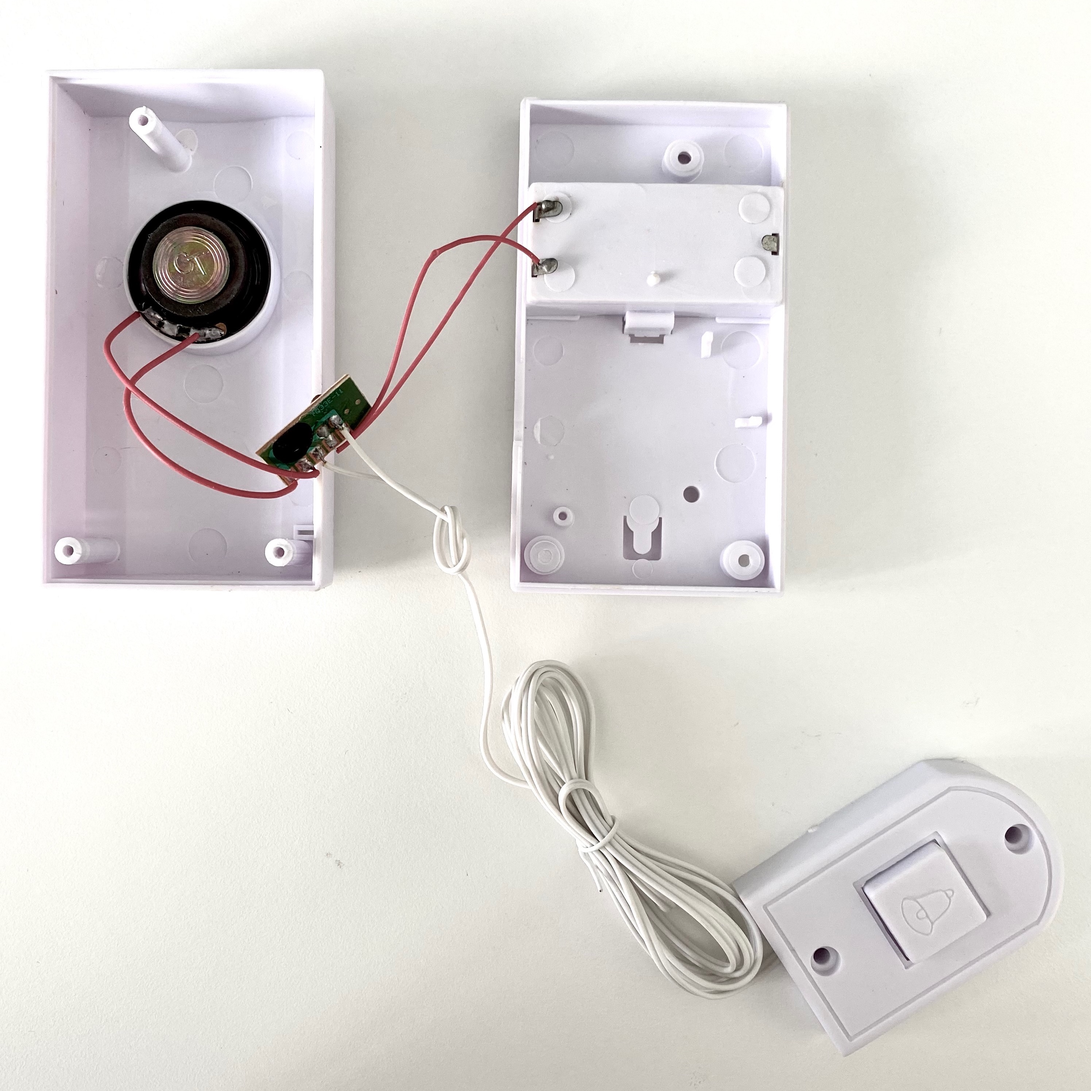
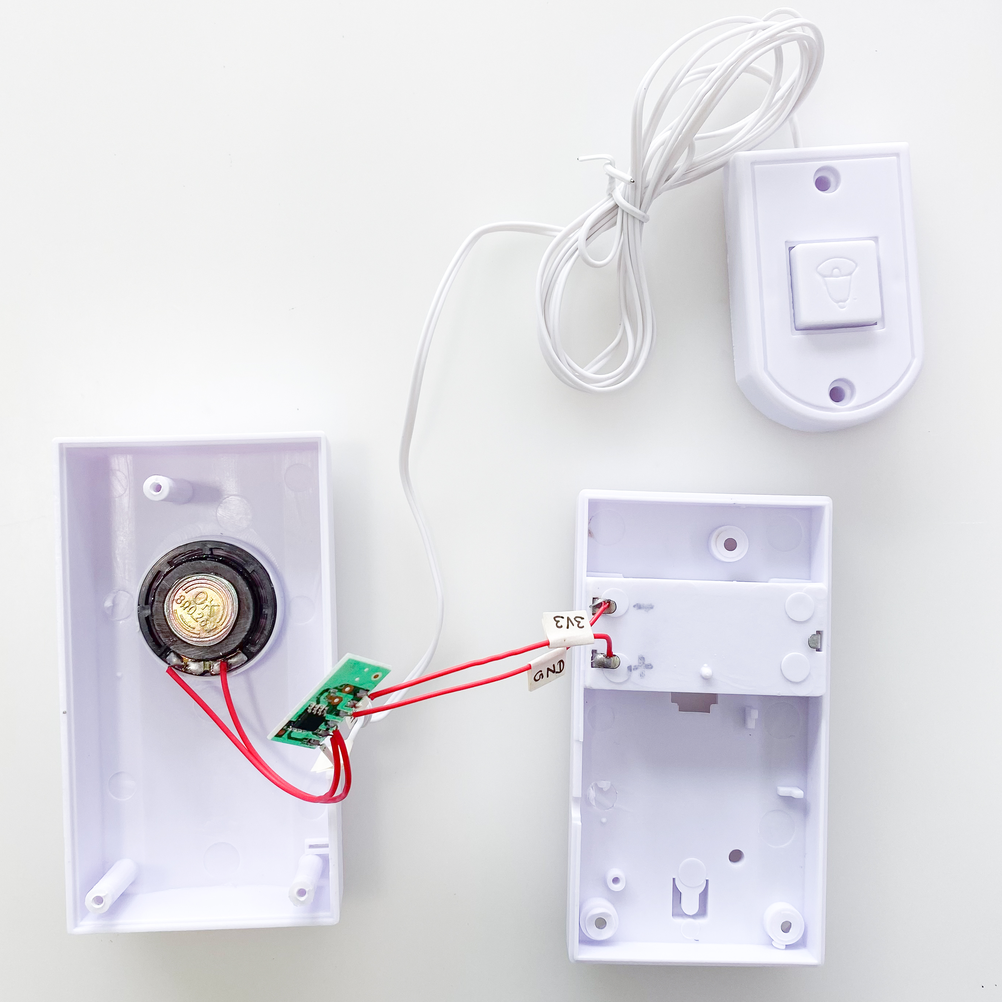
docs: add photos of new doorbell

diff --git a/index.md b/index.md
@@ -29,14 +29,14 @@ features:
             <article class="tile is-child notification">
               <p class="title">Teardown</p>
               <p class="subtitle">Look into the internals of an existing <a href="https://s.click.aliexpress.com/e/_Dm6bTXf">wired battery-powered doorbell from FUERS</a> bought on AliExpress, priced below USD $4.00.</p>
-              <a href="{{site.url}}/images/prototype/initial-doorbell.jpg">
-                <img src="{{site.url}}/images/prototype/initial-doorbell.jpg" alt="FUERS Wired Guest Welcome Doorbell High Quality Energy-saving Door bell Simple Generous Home Store Security Doorbell Button">
+              <a href="{{site.url}}/images/prototype/doorbell.jpg">
+                <img src="{{site.url}}/images/prototype/doorbell.jpg" alt="FUERS Wired Guest Welcome Doorbell High Quality Energy-saving Door bell Simple Generous Home Store Security Doorbell Button">
               </a>
               <a href="{{site.url}}/images/prototype/prototype-3.jpg">
                 <img src="{{site.url}}/images/prototype/prototype-3.jpg" alt="FUERS Wired Guest Welcome Doorbell High Quality Energy-saving Door bell Simple Generous Home Store Security Doorbell Button">
               </a>
               <p class="title">Battery</p>
-              <p class="subtitle">It is powered by 2 AAA batteries</p>
+              <p class="subtitle">It is powered by 2 AAA batteries (3V)</p>
               <a href="{{site.url}}/images/prototype/initial-doorbell-power.jpg">
                 <img src="{{site.url}}/images/prototype/initial-doorbell-power.jpg" alt="Power by 2 AAA batteries">
               </a>
@@ -45,15 +45,17 @@ features:
           <div class="tile is-parent">
             <article class="tile is-child notification">
               <p class="title">Chip</p>
-              <p class="subtitle">Chip <a href="https://www.yoycart.com/Product/550682313846/">TQ33E-11</a> is used. It rings "Ding Dong"  2 times. It is a Music chip with a built-in transistor positive trigger.</p>
-              <a href="{{site.url}}/images/prototype/initial-doorbell-chip.jpg">
-                <img src="{{site.url}}/images/prototype/initial-doorbell-chip.jpg" alt="Chip of the original doorbell">
+              <p class="subtitle">Chip TLX210924 is similar to <a href="https://www.yoycart.com/Product/550682313846/">TQ33E-11</a>. It rings "Ding Dong" 2 times. It is a Music chip with a built-in transistor positive trigger and has 6 pinouts from the PCB.</p>
+              <a href="{{site.url}}/images/prototype/prototype-5.jpg">
+                <img src="{{site.url}}/images/prototype/prototype-5.jpg" alt="Chip of the original doorbell">
               </a>
               <a href="{{site.url}}/images/prototype/initial-doorbell-circuit.jpeg">
                 <img src="{{site.url}}/images/prototype/initial-doorbell-circuit.jpeg" alt="Chip circuit">
               </a>
-              <a href="{{site.url}}/images/prototype/initial-doorbell-chip-back.jpg">
-                <img src="{{site.url}}/images/prototype/initial-doorbell-chip-back.jpg" alt="Back of the Chip of the original doorbell">
+              <p class="title">Speaker</p>
+              <p class="subtitle">A speaker of 8ohms, 0.25W is used</p>
+              <a href="{{site.url}}/images/prototype/prototype-4.jpg">
+                <img src="{{site.url}}/images/prototype/prototype-4.jpg" alt="Back of the Chip of the original doorbell">
               </a>
             </article>
           </div>
